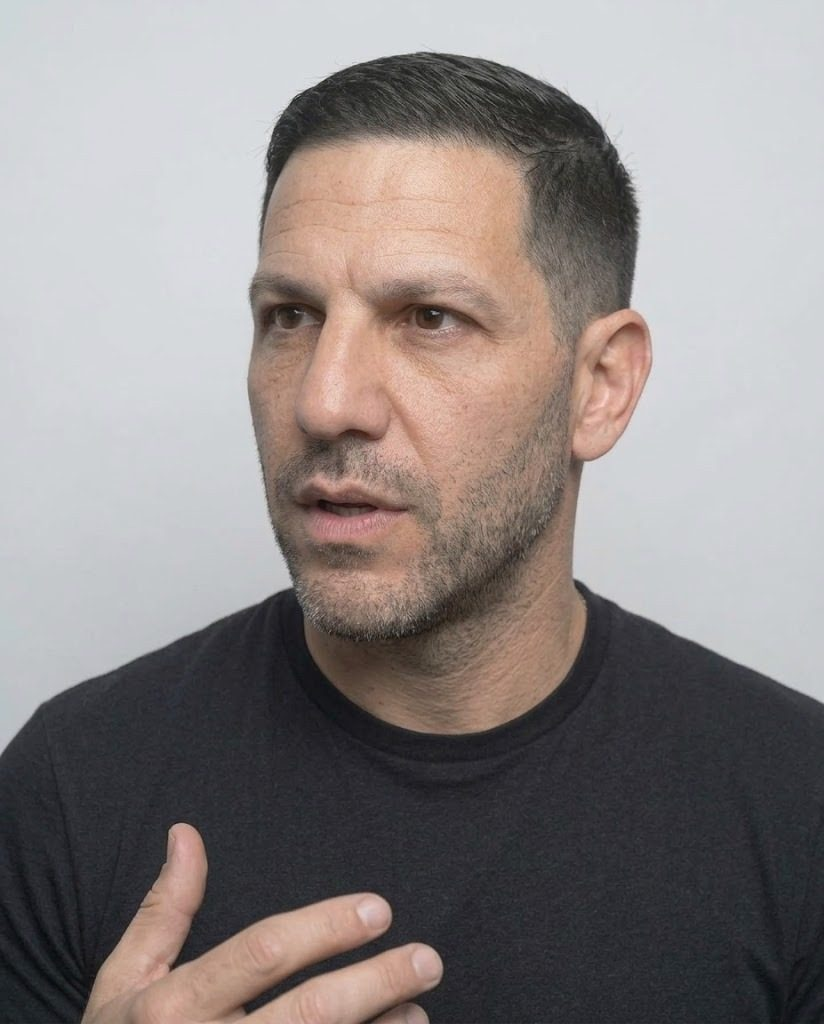
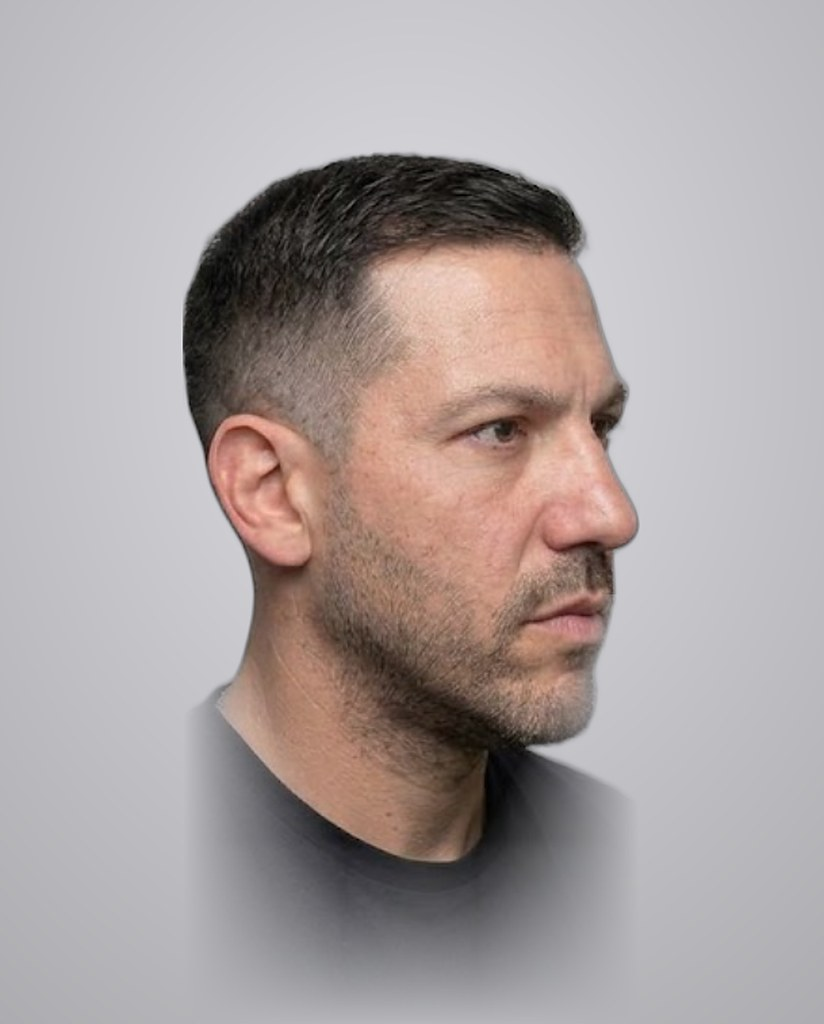
Retratos tomados de la base aprobada por Gustavo
Los retratos sueltos se habían regenerado y se alejaban de la ficha final.
Ahora todas las fotos salen de las cuatro tomas de FICHA-FINAL (remera negra),
a color sin teñir, con variante en blanco y negro. Se quita el retrato de saco
azul de la página de opciones y de la imagen para compartir.

Claude-Session: https://claude.ai/code/session_01XEEtusm5kQSvuUnX5VQpy6

diff --git a/opciones-fotos/index.html b/opciones-fotos/index.html
@@ -72,7 +72,7 @@
   </div>
 </section>
 <section class="block"><div class="wrap">
-  <h2>A. Actual: color al natural, recortado</h2><p>Lo que usa hoy el preview en todas las páginas: los retratos de Gemini en su color original, sin fondo y sin teñir.</p>
+  <h2>A. Actual: color al natural, recortado</h2><p>Lo que usa hoy el preview en todas las páginas: las cuatro tomas de la base aprobada (remera negra), en su color original, sin fondo y sin teñir.</p>
   <div style="display:grid;grid-template-columns:repeat(auto-fill,minmax(200px,1fr));gap:16px;margin-top:20px"><div style="margin:0"><img src="/assets/gustavo/cut-serio.webp" alt="Serio" loading="lazy" style="width:100%!important;max-width:none!important;height:auto!important;display:block;background:#0b1a3a"><p style="font-size:13px;opacity:.75;margin:6px 0 0">Serio</p></div><div style="margin:0"><img src="/assets/gustavo/cut-tres-cuartos.webp" alt="Tres cuartos" loading="lazy" style="width:100%!important;max-width:none!important;height:auto!important;display:block;background:#0b1a3a"><p style="font-size:13px;opacity:.75;margin:6px 0 0">Tres cuartos</p></div><div style="margin:0"><img src="/assets/gustavo/cut-perfil.webp" alt="Perfil" loading="lazy" style="width:100%!important;max-width:none!important;height:auto!important;display:block;background:#0b1a3a"><p style="font-size:13px;opacity:.75;margin:6px 0 0">Perfil</p></div><div style="margin:0"><img src="/assets/gustavo/cut-hablando.webp" alt="Hablando" loading="lazy" style="width:100%!important;max-width:none!important;height:auto!important;display:block;background:#0b1a3a"><p style="font-size:13px;opacity:.75;margin:6px 0 0">Hablando</p></div><div style="margin:0"><img src="/assets/gustavo/cut-pensativo.webp" alt="Pensativo" loading="lazy" style="width:100%!important;max-width:none!important;height:auto!important;display:block;background:#0b1a3a"><p style="font-size:13px;opacity:.75;margin:6px 0 0">Pensativo</p></div></div>
 </div></section>
 <section class="block"><div class="wrap">
@@ -80,12 +80,8 @@
   <div style="display:grid;grid-template-columns:repeat(auto-fill,minmax(200px,1fr));gap:16px;margin-top:20px"><div style="margin:0"><img src="/assets/gustavo/bn-serio.webp" alt="Serio" loading="lazy" style="width:100%!important;max-width:none!important;height:auto!important;display:block;background:#0b1a3a"><p style="font-size:13px;opacity:.75;margin:6px 0 0">Serio</p></div><div style="margin:0"><img src="/assets/gustavo/bn-tres-cuartos.webp" alt="Tres cuartos" loading="lazy" style="width:100%!important;max-width:none!important;height:auto!important;display:block;background:#0b1a3a"><p style="font-size:13px;opacity:.75;margin:6px 0 0">Tres cuartos</p></div><div style="margin:0"><img src="/assets/gustavo/bn-perfil.webp" alt="Perfil" loading="lazy" style="width:100%!important;max-width:none!important;height:auto!important;display:block;background:#0b1a3a"><p style="font-size:13px;opacity:.75;margin:6px 0 0">Perfil</p></div><div style="margin:0"><img src="/assets/gustavo/bn-hablando.webp" alt="Hablando" loading="lazy" style="width:100%!important;max-width:none!important;height:auto!important;display:block;background:#0b1a3a"><p style="font-size:13px;opacity:.75;margin:6px 0 0">Hablando</p></div><div style="margin:0"><img src="/assets/gustavo/bn-pensativo.webp" alt="Pensativo" loading="lazy" style="width:100%!important;max-width:none!important;height:auto!important;display:block;background:#0b1a3a"><p style="font-size:13px;opacity:.75;margin:6px 0 0">Pensativo</p></div></div>
 </div></section>
 <section class="block"><div class="wrap">
-  <h2>C. Gemini con fondo gris (respaldo)</h2><p>Los retratos tal como salieron de Gemini, con el fondo gris de la ficha.</p>
+  <h2>C. Con fondo gris de estudio (respaldo)</h2><p>Las mismas tomas de la base aprobada sobre el fondo gris de la ficha.</p>
   <div style="display:grid;grid-template-columns:repeat(auto-fill,minmax(200px,1fr));gap:16px;margin-top:20px"><div style="margin:0"><img src="/assets/gustavo/serio.jpg" alt="Serio" loading="lazy" style="width:100%!important;max-width:none!important;height:auto!important;display:block;background:#0b1a3a"><p style="font-size:13px;opacity:.75;margin:6px 0 0">Serio</p></div><div style="margin:0"><img src="/assets/gustavo/tres-cuartos.jpg" alt="Tres cuartos" loading="lazy" style="width:100%!important;max-width:none!important;height:auto!important;display:block;background:#0b1a3a"><p style="font-size:13px;opacity:.75;margin:6px 0 0">Tres cuartos</p></div><div style="margin:0"><img src="/assets/gustavo/perfil.jpg" alt="Perfil" loading="lazy" style="width:100%!important;max-width:none!important;height:auto!important;display:block;background:#0b1a3a"><p style="font-size:13px;opacity:.75;margin:6px 0 0">Perfil</p></div><div style="margin:0"><img src="/assets/gustavo/hablando.jpg" alt="Hablando" loading="lazy" style="width:100%!important;max-width:none!important;height:auto!important;display:block;background:#0b1a3a"><p style="font-size:13px;opacity:.75;margin:6px 0 0">Hablando</p></div><div style="margin:0"><img src="/assets/gustavo/pensativo.jpg" alt="Pensativo" loading="lazy" style="width:100%!important;max-width:none!important;height:auto!important;display:block;background:#0b1a3a"><p style="font-size:13px;opacity:.75;margin:6px 0 0">Pensativo</p></div></div>
-</div></section>
-<section class="block"><div class="wrap">
-  <h2>D. Gemini ejecutivo: saco azul en oficina</h2><p>El retrato de saco azul y camisa blanca del primer lote de Gemini (sin la marca de agua). Sirve para el hero o la imagen para compartir.</p>
-  <div style="display:grid;grid-template-columns:repeat(auto-fill,minmax(200px,1fr));gap:16px;margin-top:20px"><div style="margin:0"><img src="/assets/gustavo/opciones/a1-saco-azul.webp" alt="Saco azul, oficina" loading="lazy" style="width:100%!important;max-width:none!important;height:auto!important;display:block;background:#0b1a3a"><p style="font-size:13px;opacity:.75;margin:6px 0 0">Saco azul, oficina</p></div></div>
 </div></section>
 </main>
 <footer class="site-foot">
